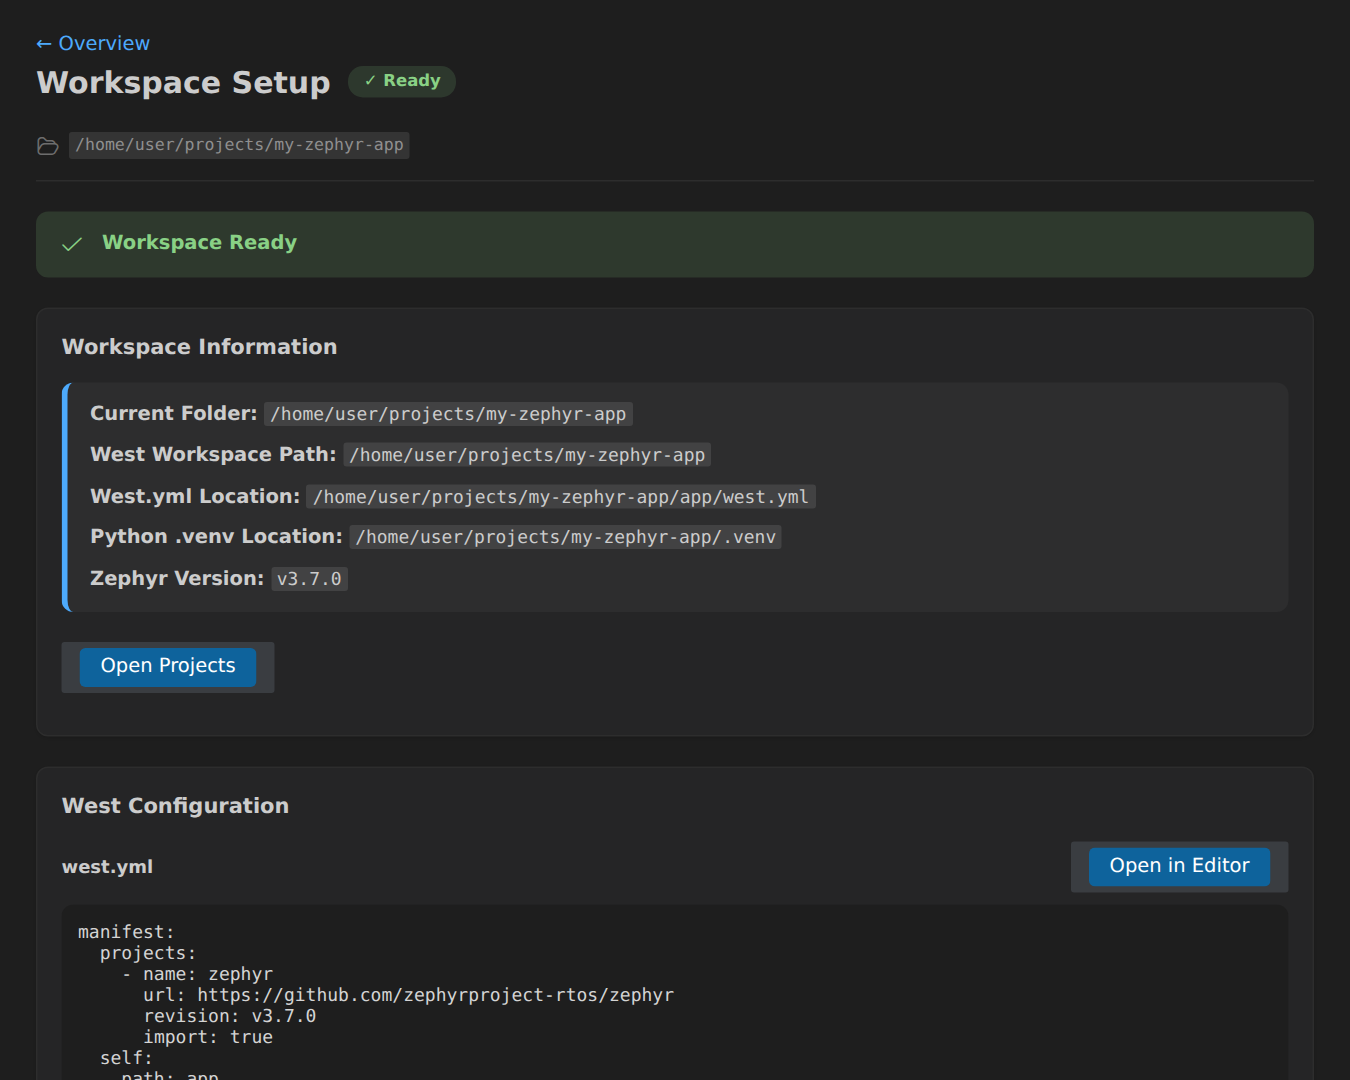
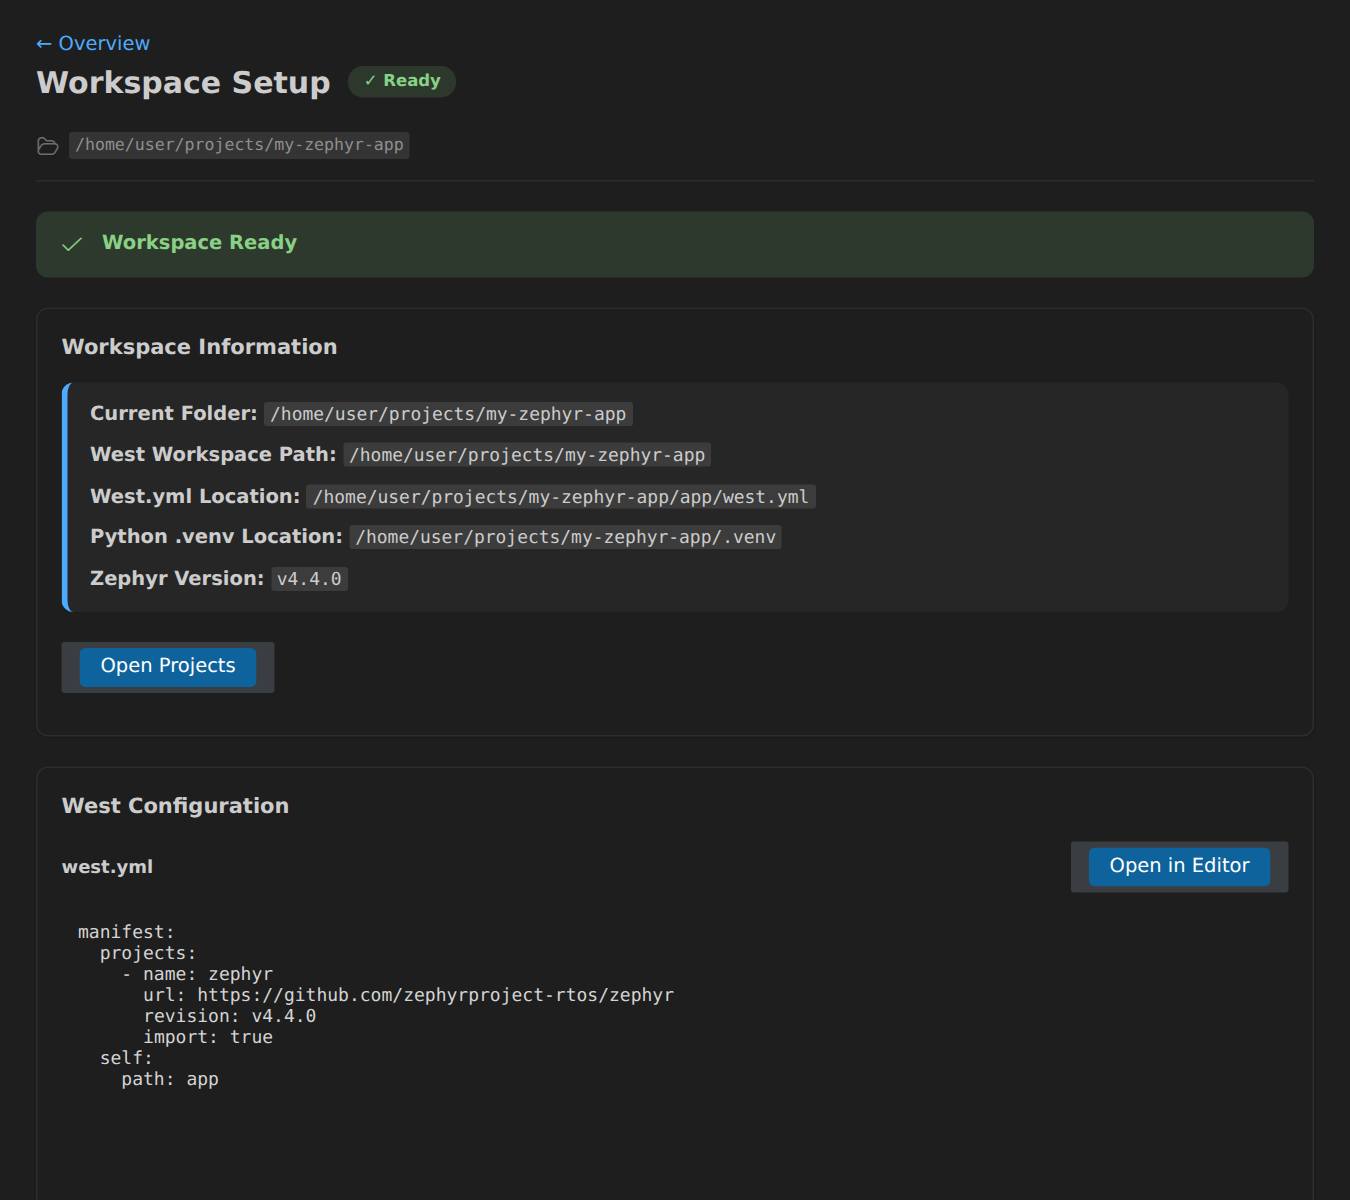
Update screenshots: Zephyr v4.4.0/SDK v1.0.1, setup cards state, full-page host-tools, new workspace_setup.png
Agent-Logs-Url: https://github.com/mylonics/zephyr-ide/sessions/eebbab19-4cc0-4b94-bd39-53a63f81ec8e

Changed region(s): [[0.0311, 0.0306, 0.9956, 1.0], [0.7778, 0.7028, 0.9644, 0.825]]

diff --git a/docs/src/content/docs/getting-started/workspace-configuration.md b/docs/src/content/docs/getting-started/workspace-configuration.md
@@ -3,9 +3,13 @@ title: Workspace Configuration
 description: Set up a Zephyr west workspace in VS Code — clone from Git, create a standard workspace, use west.yml templates, or connect to an existing Zephyr installation with IDE for Zephyr.
 ---
 
-![Unconfigured Workspace Panel](https://raw.githubusercontent.com/mylonics/zephyr-ide/main/docs/media/unconfigured_workspace_panel.png)
+![Workspace Setup](https://raw.githubusercontent.com/mylonics/zephyr-ide/main/docs/media/workspace_setup.png)
 
-Click the Workspace card to configure your west workspace. You have several options for setting up your Zephyr development environment.
+Click the Workspace card to configure your west workspace. Choose to set up a workspace in the current VS Code folder or an external directory.
+
+![Workspace Setup Options](https://raw.githubusercontent.com/mylonics/zephyr-ide/main/docs/media/unconfigured_workspace_panel.png)
+
+You have several options for setting up your Zephyr development environment.
 
 ## Workspace Setup Methods
 
